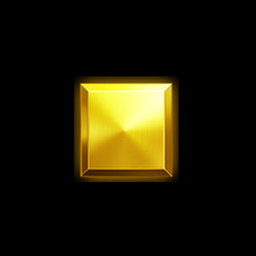
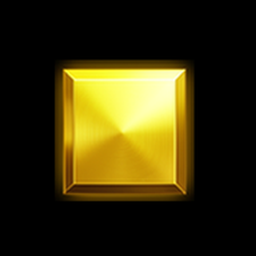
combo PS znacky: symbol 88% dlaždice, obrazek 74px (velikost tlacitek dole)

Changed region(s): [[0.1875, 0.2188, 0.7812, 0.8125], [0.4062, 0.4375, 0.5312, 0.5625]]

diff --git a/public/style.css b/public/style.css
@@ -332,7 +332,7 @@ body.no-scroll { overflow: hidden; }
    PNG má plné černé pozadí (RGB, bez alpha) → overflow:hidden je nutné, aby
    border-radius:50% ořízl černý čtverec na kruh. Velký symbol, tenký ring (3px). */
 .combo-ring img {
-  width:70px;height:70px;
+  width:74px;height:74px;
   border-radius:50%;border:2px solid #fff;
   object-fit:cover;overflow:hidden;
   background:#111;display:block;
